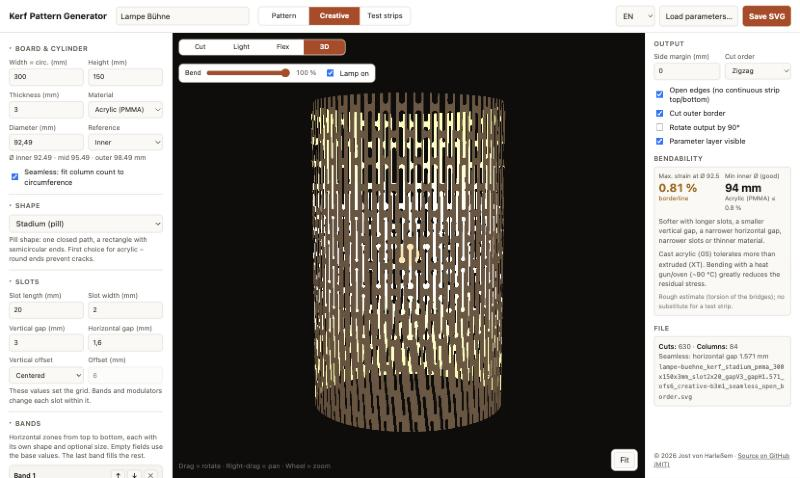
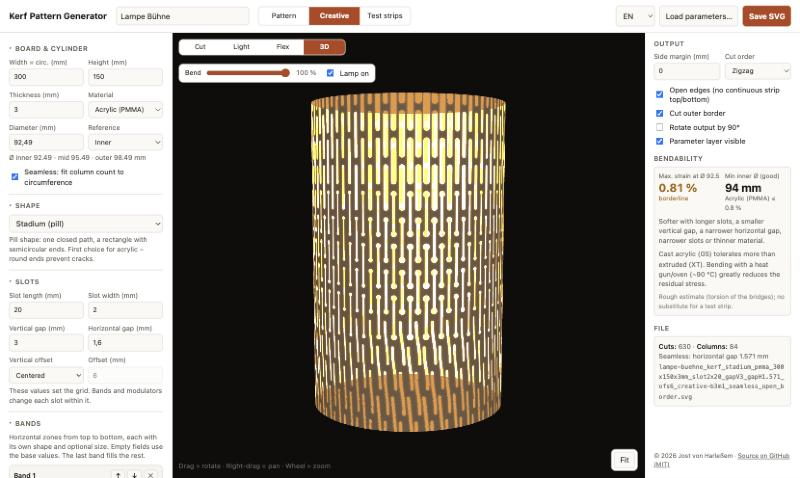
Make the 3D lamp glow through the slots
An additive layer driven by an inverted, slightly blurred copy of the
cut mask lights up the slots when the lamp is on, at any bend.

Changed region(s): [[0.375, 0.1757, 0.6562, 0.9079]]

diff --git a/index.html b/index.html
@@ -1478,8 +1478,12 @@ function initThree() {
   const bulb = new THREE.Mesh(new THREE.SphereGeometry(1, 24, 16), new THREE.MeshBasicMaterial({ color: 0xffe6b0 }));
   const mat = new THREE.MeshStandardMaterial({ side: THREE.DoubleSide, alphaTest: 0.5, roughness: 0.55, metalness: 0 });
   const mesh = new THREE.Mesh(new THREE.BufferGeometry(), mat);
-  scene.add(hemi, dir, lamp, bulb, mesh);
-  three = { renderer, scene, camera, controls, hemi, dir, lamp, bulb, mat, mesh, size: '' };
+  // lamp glow: slots light up (additive), drawn over the shell
+  const glowMat = new THREE.MeshBasicMaterial({ color: 0xd98a32, transparent: true, blending: THREE.AdditiveBlending,
+    depthWrite: false, side: THREE.DoubleSide, polygonOffset: true, polygonOffsetFactor: -2 });
+  const glow = new THREE.Mesh(mesh.geometry, glowMat);
+  scene.add(hemi, dir, lamp, bulb, mesh, glow);
+  three = { renderer, scene, camera, controls, hemi, dir, lamp, bulb, mat, mesh, glow, glowMat, size: '' };
   new ResizeObserver(resize3d).observe(el);
   resize3d();
   (function loop() {
@@ -1511,7 +1515,7 @@ function bendGeometry(W, H, bend) {
   }
   g.computeVertexNormals();
   three.mesh.geometry.dispose();
-  three.mesh.geometry = g;
+  three.mesh.geometry = three.glow.geometry = g;
   return Math.max(axisZ, -Math.max(W, H));
 }
 function apply3dScene(p, doc, refit) {
@@ -1525,6 +1529,7 @@ function apply3dScene(p, doc, refit) {
   three.lamp.intensity = lampOn ? 2.4 : 0;
   three.lamp.position.set(0, 0, axisZ);
   three.bulb.visible = lampOn;
+  three.glow.visible = lampOn && !!three.glowMat.map;
   three.bulb.position.set(0, 0, axisZ);
   three.bulb.scale.setScalar(Math.max(2, Math.min(W / Math.PI, H) * 0.06));
   three.mat.color.setHex(MAT_COLORS[p.material] || 0xeeeeee);
@@ -1564,6 +1569,31 @@ function updateMask(doc) {
     if (three.mat.alphaMap) three.mat.alphaMap.dispose();
     three.mat.alphaMap = tex;
     three.mat.needsUpdate = true;
+    // glow map: slots white on black, a blurred halo plus the sharp slot
+    const gc = document.createElement('canvas');
+    gc.width = cv.width; gc.height = cv.height;
+    const g = gc.getContext('2d');
+    const inv = document.createElement('canvas');
+    inv.width = cv.width; inv.height = cv.height;
+    const ig = inv.getContext('2d');
+    ig.drawImage(cv, 0, 0);
+    ig.globalCompositeOperation = 'difference';
+    ig.fillStyle = '#fff';
+    ig.fillRect(0, 0, inv.width, inv.height);
+    g.fillStyle = '#000';
+    g.fillRect(0, 0, gc.width, gc.height);
+    g.globalCompositeOperation = 'lighter';
+    g.filter = `blur(${Math.max(1.5, s * 0.45)}px)`;
+    g.globalAlpha = 0.45;
+    g.drawImage(inv, 0, 0);
+    g.filter = 'none';
+    g.globalAlpha = 0.85;
+    g.drawImage(inv, 0, 0);
+    const gt = new THREE.CanvasTexture(gc);
+    if (three.glowMat.map) three.glowMat.map.dispose();
+    three.glowMat.map = gt;
+    three.glowMat.needsUpdate = true;
+    three.glow.visible = view3d.lamp;
   };
   im.src = url;
 }

diff --git a/README.md b/README.md
@@ -21,7 +21,7 @@ A browser tool for laser-cut kerf bending (living hinge) patterns, with a focus 
   - **Modulators**: linear gradient (any angle, optionally mirrored), radial, waves, noise or a greyscale **image** drive slot width, slot length, slot removal or a shape swap. They stack from top to bottom with adjustable strength.
   - The image is stored (downscaled) in the SVG metadata, so a design can be reloaded completely.
 - **Preview views**: *Cut*, *Light* (glowing slots on a dark board – how a lampshade will look) and *Flex* (per-slot strain heatmap: good / borderline / too high / rigid).
-- **3D preview**: the board as a 3D surface with the slots as real holes. A *Bend* slider goes from flat to a closed cylinder, an optional lamp inside shines through, and you can orbit and zoom. three.js is loaded only when the 3D view is opened.
+- **3D preview**: the board as a 3D surface with the slots as real holes. A *Bend* slider goes from flat to a closed cylinder, an optional lamp inside makes the slots glow like the finished lampshade, and you can orbit and zoom. three.js is loaded only when the 3D view is opened.
 - **Bendability estimate**: strain in the twisting bridges for the target diameter, computed for every slot-to-slot link, plus the smallest recommended diameter per material (acrylic, PETG, plywood, MDF). It is a rough guide based on Saint-Venant torsion and does not replace a test cut.
 - **Test strips**: a set of coupons that vary one parameter, each with an engraved label (value and min. diameter).
 - **Cut order**: zigzag, or every other column first (less heat build-up, useful for acrylic).
